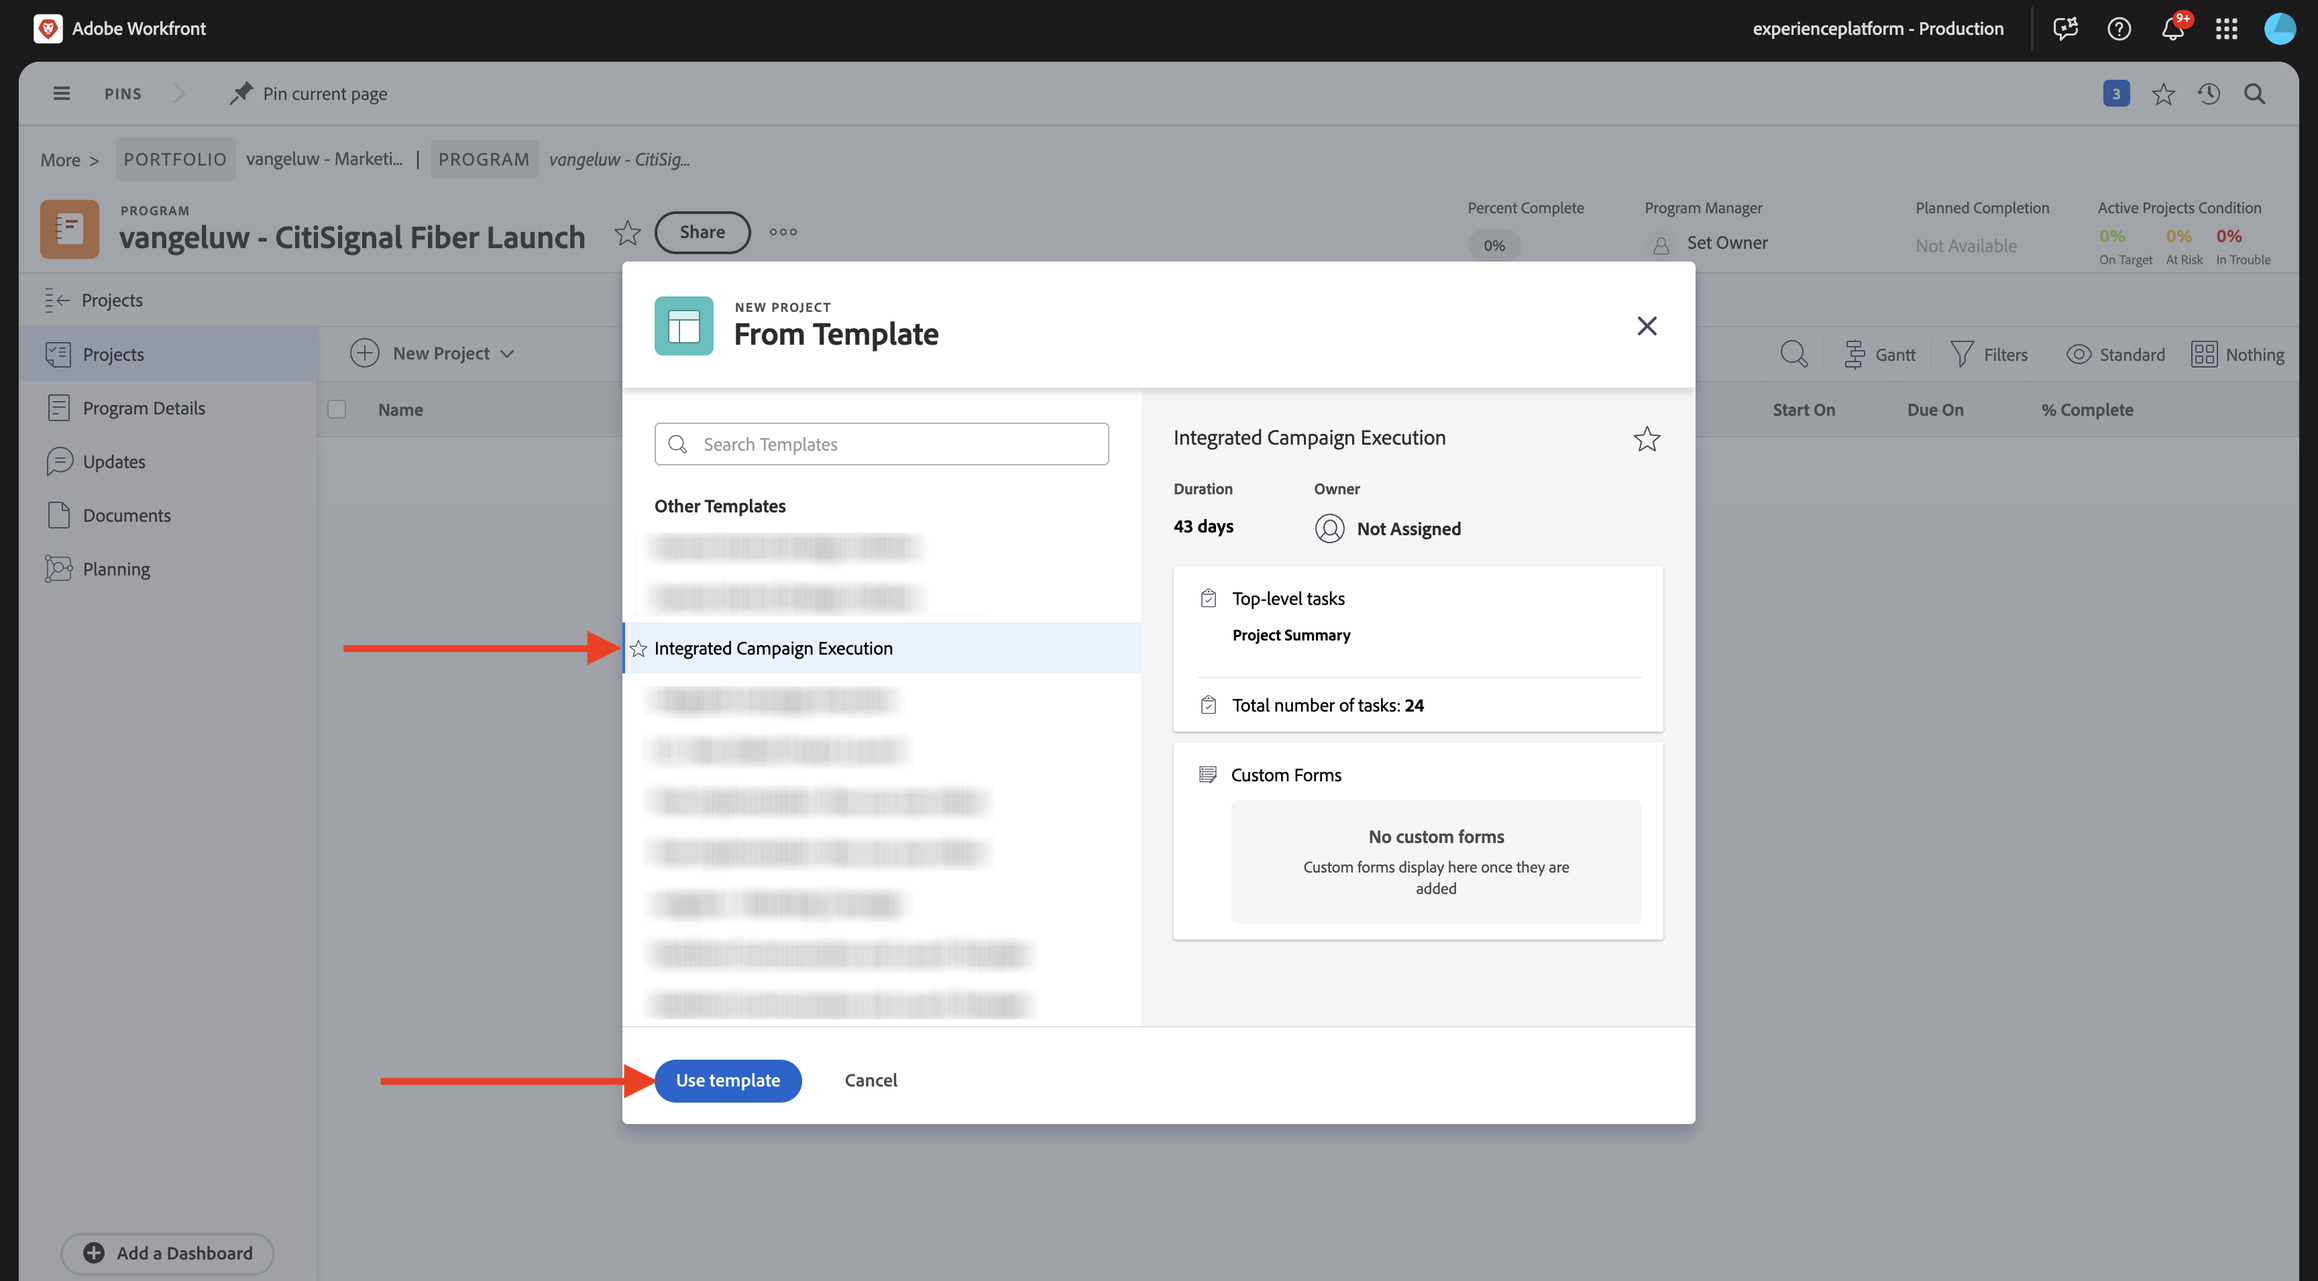
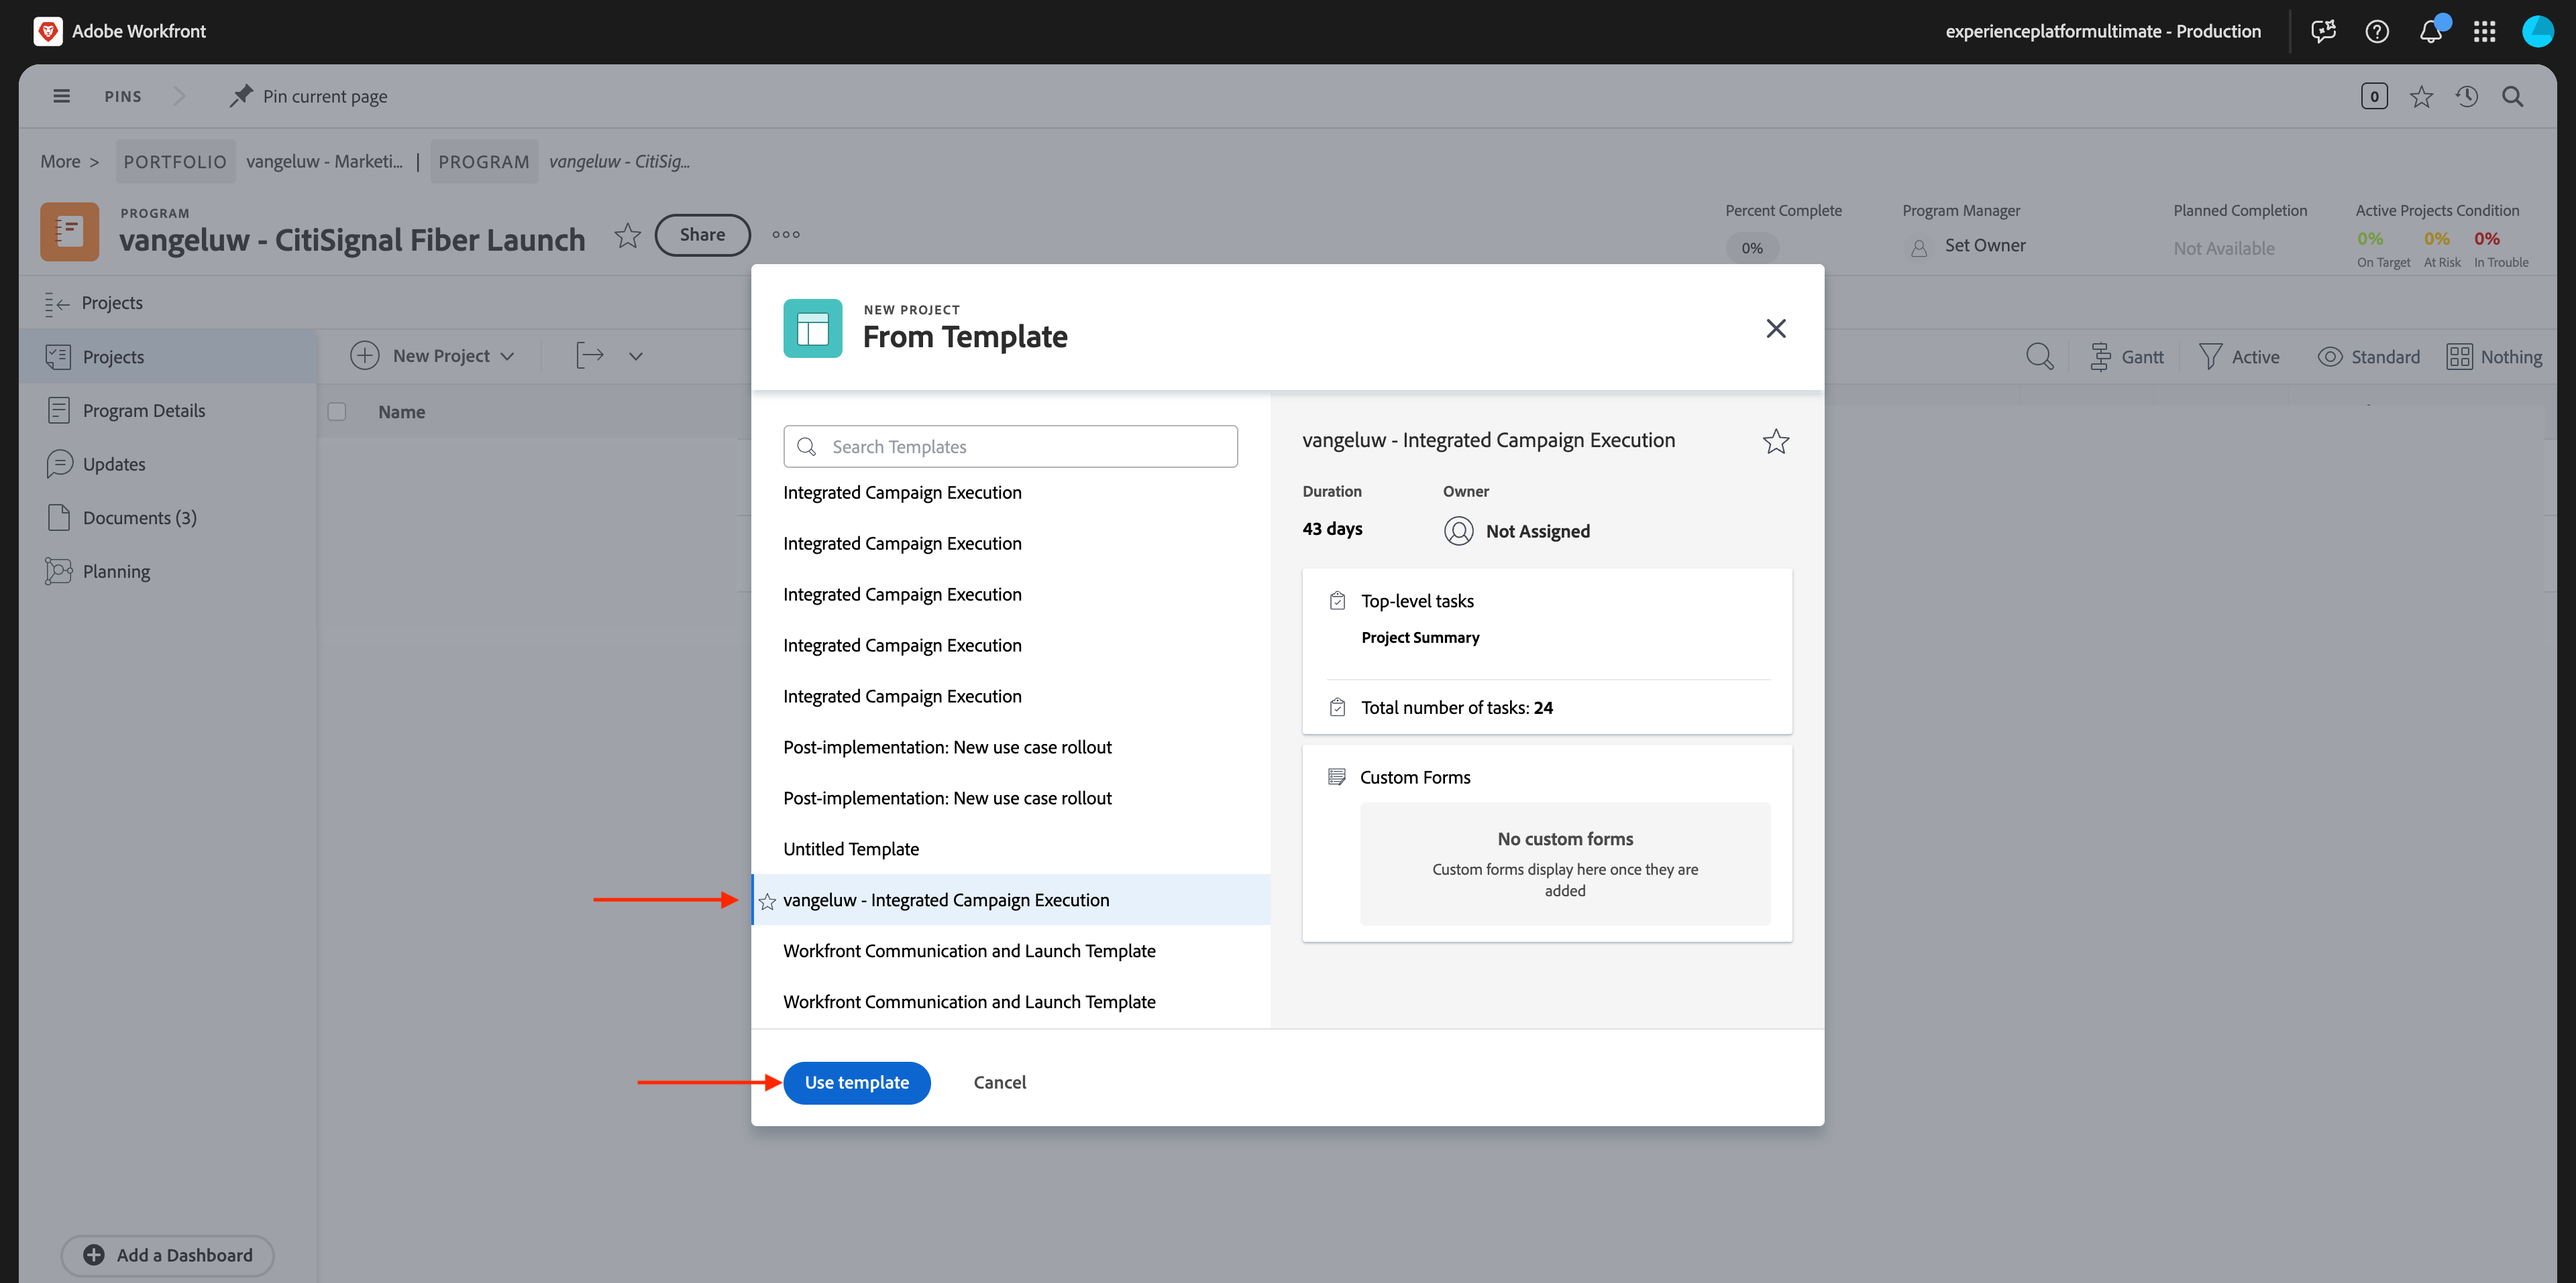
various fixes

diff --git a/help/tutorial-one-adobe/modules/asset-mgmt/module2.1/ex4.md b/help/tutorial-one-adobe/modules/asset-mgmt/module2.1/ex4.md
@@ -100,10 +100,10 @@ In your browser, go to your GitHub account and to the repository your created fo
 
 ![Block](./images/blockadv12.png){zoomable="yes"}
 
-You will now be able to view the changes to your website by going to `main--citisignal--XXX.aem.page/us/en/` and/or `main--citisignal--XXX.aem.live/us/en/`, after replacing XXX by your GitHub user account, which in this example is `woutervangeluwe`.
+You will now be able to view the changes to your website by going to `main--citisignal-aem-accs--XXX.aem.page` and/or `main--citisignal-aem-accs--XXX.aem.live`, after replacing XXX by your GitHub user account, which in this example is `woutervangeluwe`.
 
 In this example, the full URL becomes this:
-`https://main--citisignal--woutervangeluwe.aem.page/us/en/` and/or `https://main--citisignal--woutervangeluwe.aem.live/us/en/`.
+`https://main--citisignal-aem-accs--woutervangeluwe.aem.page` and/or `https://main--citisignal-aem-accs--woutervangeluwe.aem.live`.
 
 You should then see this, with the styling applied to your page.
 
@@ -330,10 +330,10 @@ Next, click **Push origin**.
 
 ![Block](./images/blockadv19.png){zoomable="yes"}
 
-You will now be able to view the changes to your website by going to `main--citisignal--XXX.aem.page/us/en/` and/or `main--citisignal--XXX.aem.live/us/en/`, after replacing XXX by your GitHub user account, which in this example is `woutervangeluwe`.
+You will now be able to view the changes to your website by going to `main--citisignal-aem-accs--XXX.aem.page` and/or `main--citisignal-aem-accs--XXX.aem.live`, after replacing XXX by your GitHub user account, which in this example is `woutervangeluwe`.
 
 In this example, the full URL becomes this:
-`https://main--citisignal--woutervangeluwe.aem.page/us/en/` and/or `https://main--citisignal--woutervangeluwe.aem.live/us/en/`.
+`https://main--citisignal-aem-accs--woutervangeluwe.aem.page` and/or `https://main--citisignal-aem-accs--woutervangeluwe.aem.live`.
 
 You should then see this.
 

diff --git a/help/tutorial-one-adobe/modules/creation-production/module1.2/ex1.md b/help/tutorial-one-adobe/modules/creation-production/module1.2/ex1.md
@@ -164,11 +164,11 @@ Once the scenario has run, your screen should look like this:
 
 ![WF Fusion](./images/wffusion30.png)
 
-Select the **question mark** icon on the **Set multiple variables** object to see what happened when that object ran.
+Select the **magnifying glass** icon on the **Set multiple variables** object to see what happened when that object ran.
 
 ![WF Fusion](./images/wffusion31.png)
 
-Select the **question mark** icon on the **HTTP - Make a request** object to see what happened when that object ran. In the **OUTPUT**, see the **access_token** being returned by Adobe I/O.
+Select the **magnifying glass** icon on the **HTTP - Make a request** object to see what happened when that object ran. In the **OUTPUT**, see the **access_token** being returned by Adobe I/O.
 
 ![WF Fusion](./images/wffusion32.png)
 
@@ -200,7 +200,7 @@ Select **Run once** again.
 
 ![WF Fusion](./images/wffusion39.png)
 
-Once the scenario runs, select the **question mark** icon on the last **Set multiple variables** object. You should see that the access_token is being stored in the variable `bearer_token`.
+Once the scenario runs, select the **magnifying glass** icon on the last **Set multiple variables** object. You should see that the access_token is being stored in the variable `bearer_token`.
 
 ![WF Fusion](./images/wffusion40.png)
 

diff --git a/help/tutorial-one-adobe/modules/workflow-planning/module1.1/ex1.md b/help/tutorial-one-adobe/modules/workflow-planning/module1.1/ex1.md
@@ -70,7 +70,7 @@ You should then see the **Add record type** popup.
 
 Update the following information on the **Appearance** tab:
 
-- Replace **Untitled record type** by `Business Unit`.
+- Replace **Untitled record type** with `Business Unit`.
 - Description: `Defines which BU is leading campaign planning.`.
 - Select a color and shape for the icon of your choice
 
@@ -108,7 +108,7 @@ Next, click the **+** icon to add a new field. Scroll down in the list of availa
 
 Set the **Name** of the field to `Business Unit Lead` and set the description of the field to `Business Unit Lead responsible for budget and resources (VP, Head).`
 
-Click **Save**.
+Click **Create**.
 
 ![Workfront Planning](./images/wfpl17.png)
 

diff --git a/help/tutorial-one-adobe/modules/workflow-planning/module1.2/ex2.md b/help/tutorial-one-adobe/modules/workflow-planning/module1.2/ex2.md
@@ -52,6 +52,8 @@ Click **Continue**.
 
 ![WF](./images/blueprint3.png)
 
+Change the **Project Template Name** to `--aepUserLdap-- - Integrated Campaign Execution`.
+
 Click **Install as is...**.
 
 ![WF](./images/blueprint4.png)
@@ -82,7 +84,7 @@ In your program, go to **Projects**. Click **+ New Project** and then select **N
 
 ![WF](./images/wfp6.png)
 
-Select the template **Integrated Campaign Execution** and click **Use template**.
+Select the template `--aepUserLdap-- - Integrated Campaign Execution` and click **Use template**.
 
 ![WF](./images/wfp6g.png)
 

diff --git a/help/tutorial-one-adobe/modules/creation-production/module1.2/ex2.md b/help/tutorial-one-adobe/modules/creation-production/module1.2/ex2.md
@@ -61,7 +61,7 @@ You should then see this. Next, drag the red dot on the first module towards the
 
 ![WF Fusion](./images/wffusion217b.png)
 
-You should then see this. Newt, click the **Custom webhook** module.
+You should then see this. Next, click the **Custom webhook** module.
 
 ![WF Fusion](./images/wffusion217c.png)
 

diff --git a/help/tutorial-one-adobe/modules/creation-production/module1.3/ex3.md b/help/tutorial-one-adobe/modules/creation-production/module1.3/ex3.md
@@ -184,7 +184,7 @@ Select **AEM Assets**.
 
 ![GSPeM](./images/gsasset8.png)
 
-Click **Select folder**.
+Click **Select folder**. Change the name of the asset to `--aepUserLdap-- - neon rabbit`.
 
 ![GSPeM](./images/gsasset9.png)
 
